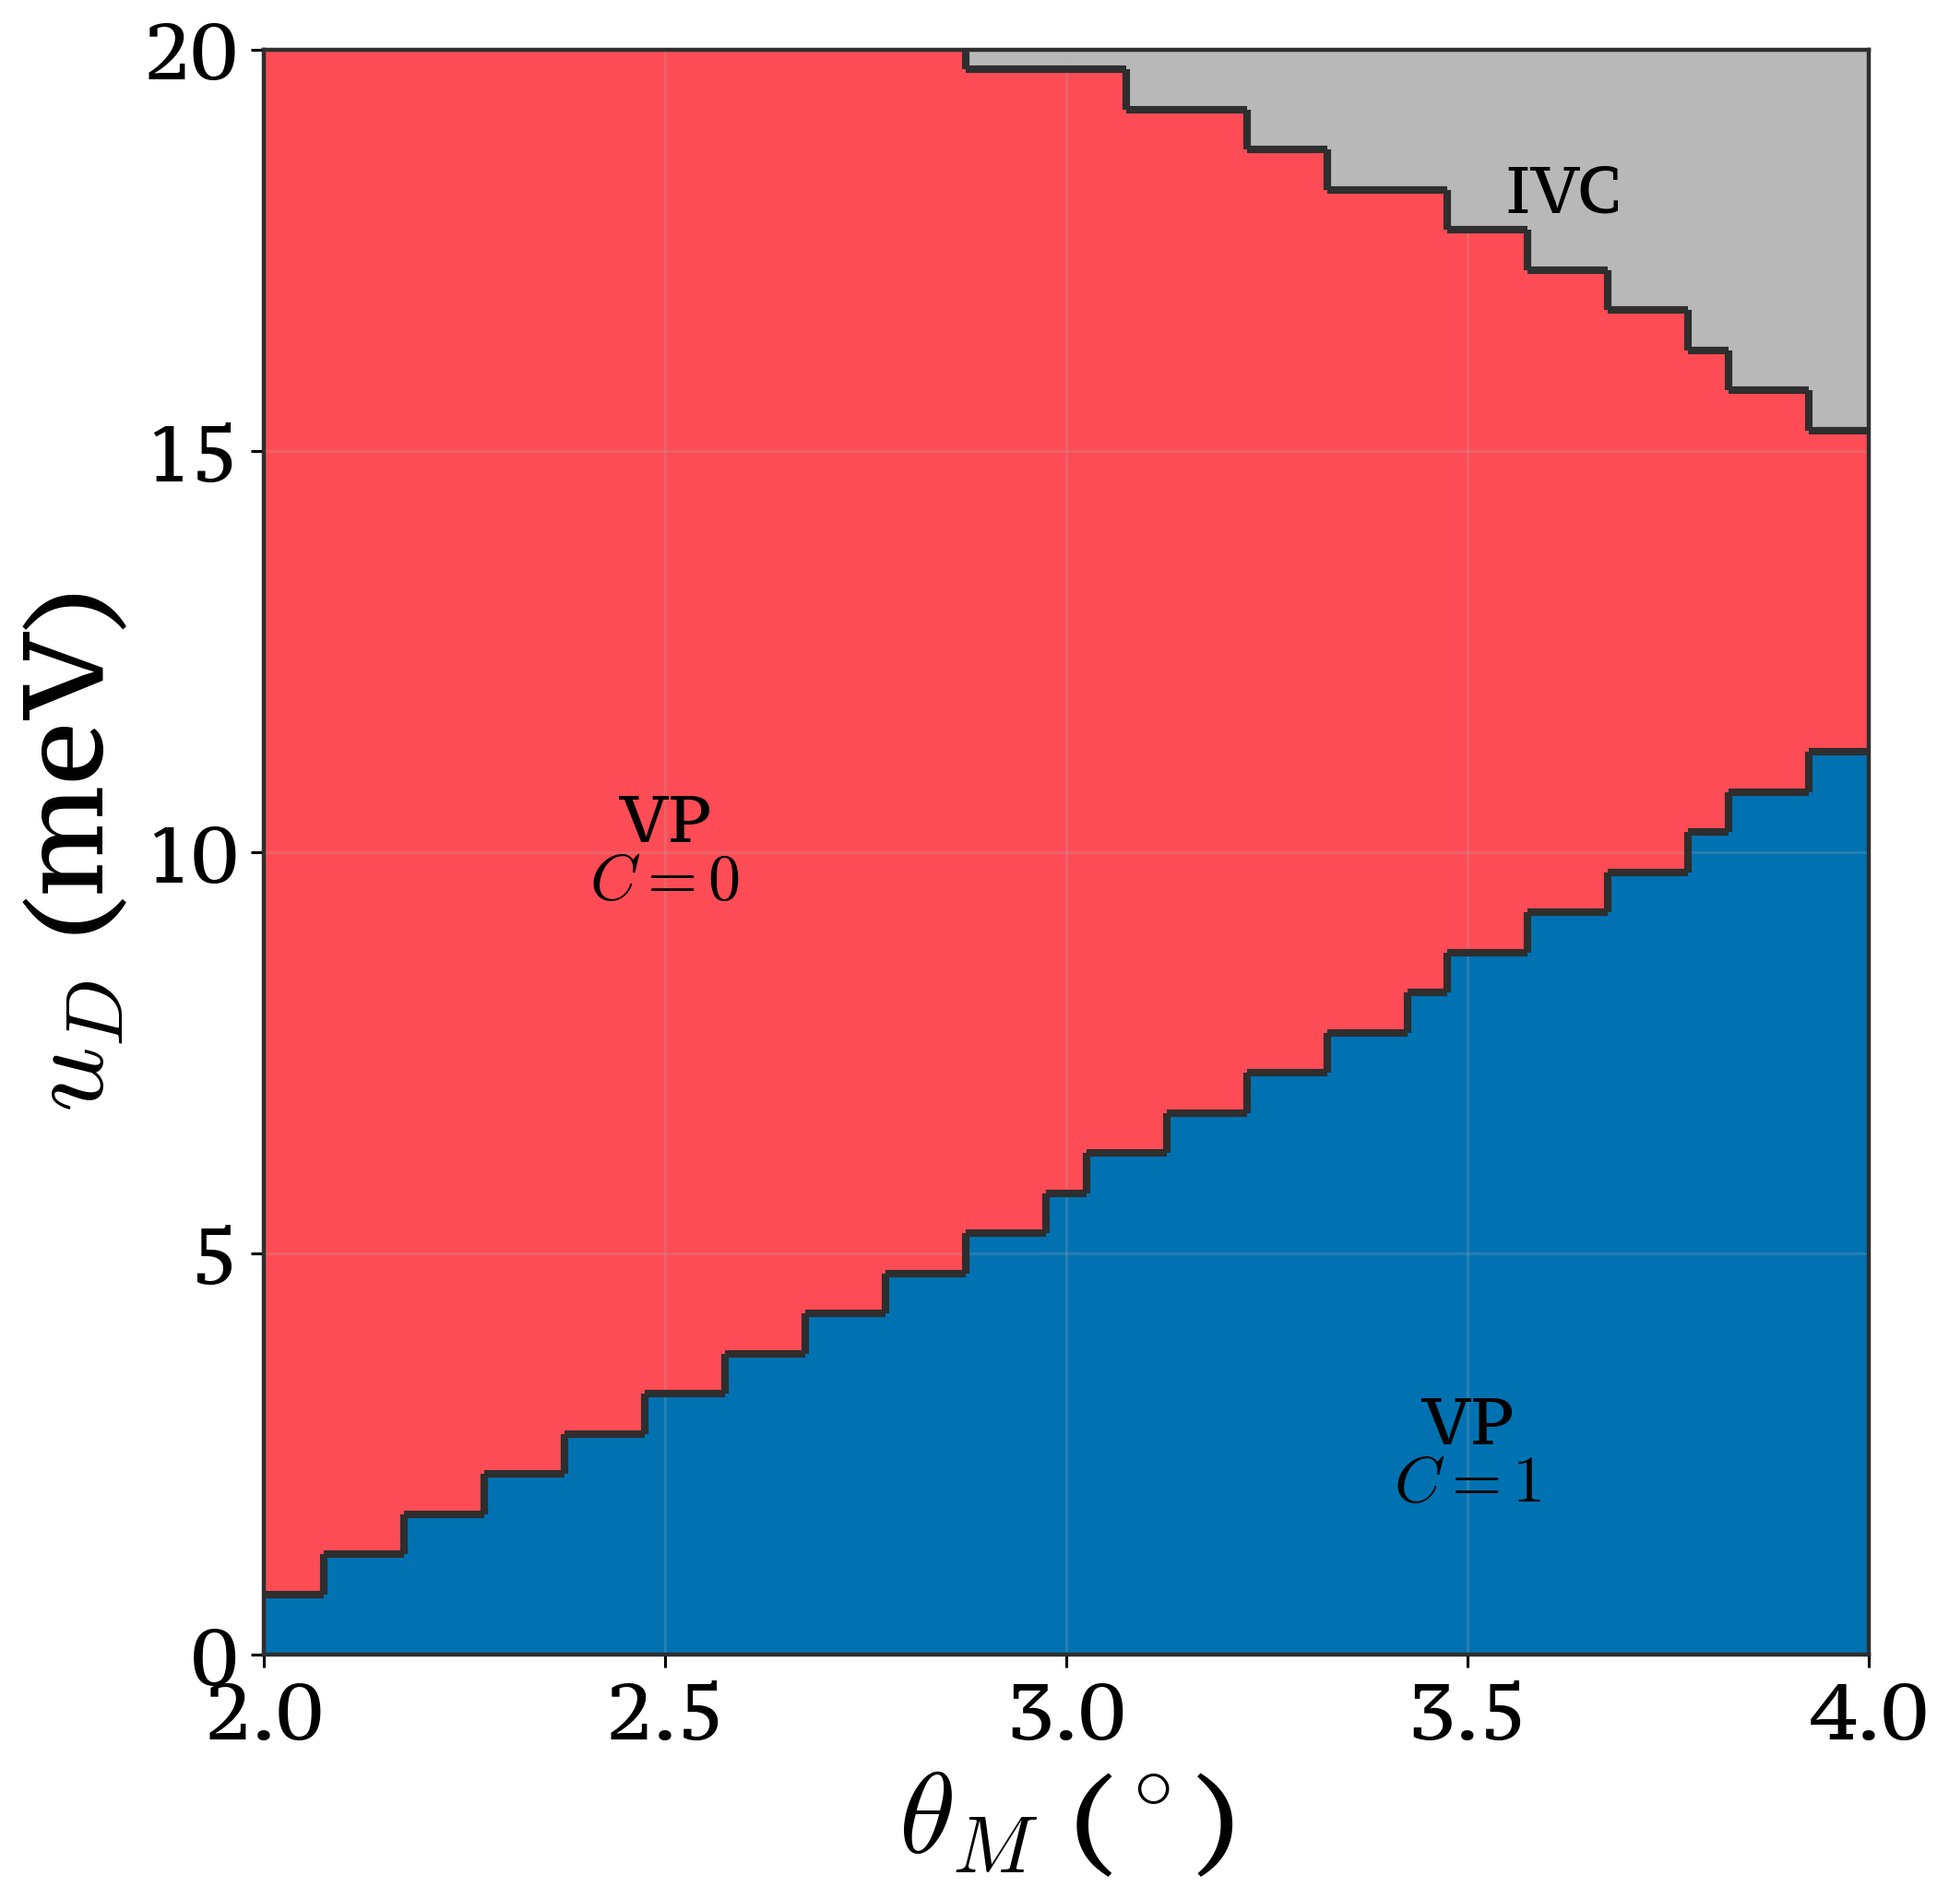
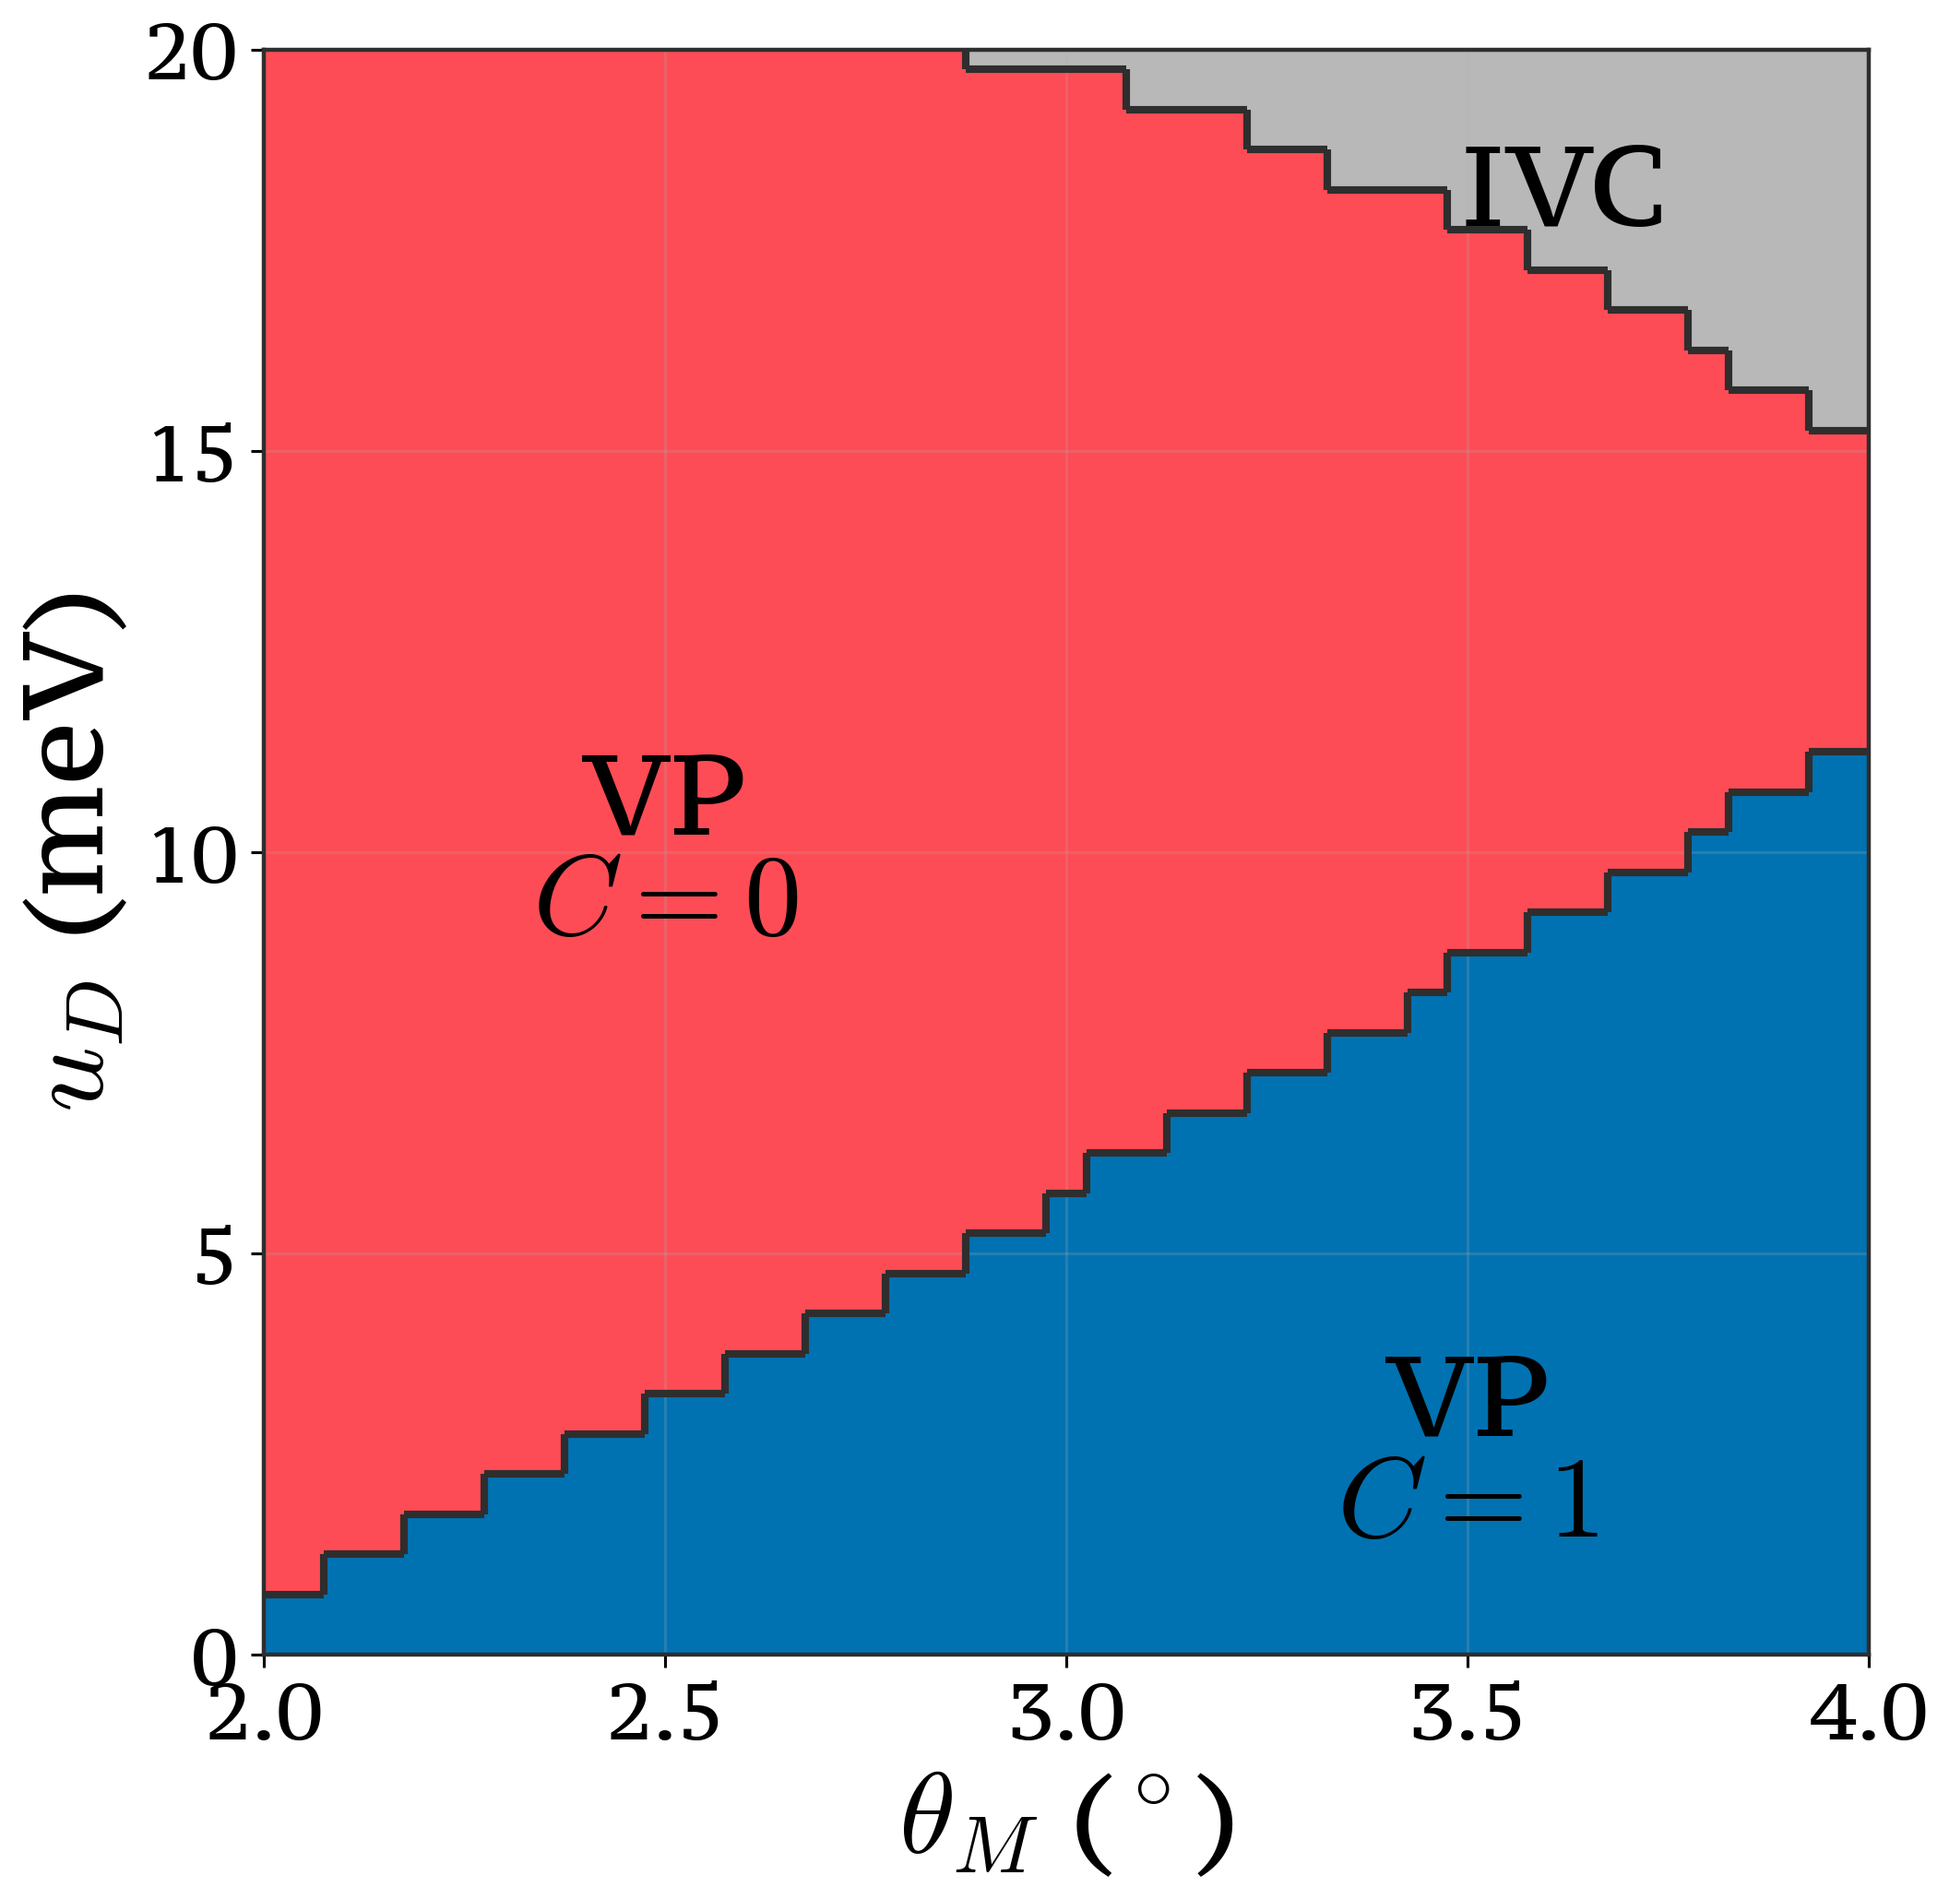
Enlarge HF phase labels

Changed region(s): [[0.2811, 0.373, 0.4061, 0.4973], [0.6872, 0.7149, 0.8121, 0.8082], [0.7496, 0.0622, 0.8434, 0.1243]]

diff --git a/tests/test_tmote2_all7_cg_heatmap_plot.py b/tests/test_tmote2_all7_cg_heatmap_plot.py
@@ -46,7 +46,7 @@ def test_hf_phase_diagram_has_requested_categorical_colors():
 def test_hf_phase_labels_match_previous_tmote2_placement():
     module = _load_plot_module()
 
-    assert module.FONTS["phase_label"] == 18
+    assert module.FONTS["phase_label"] == module.FONTS["axis_label"] == 32
     assert module.PHASE_LABELS == (
         {"text": "VP\n$C=0$", "theta_deg": 2.50, "u_D_meV": 10.0},
         {"text": "VP\n$C=1$", "theta_deg": 3.50, "u_D_meV": 2.5},

diff --git a/Plots/plot_grid41_linear_interaction_single_cg_heatmap.py b/Plots/plot_grid41_linear_interaction_single_cg_heatmap.py
@@ -45,7 +45,7 @@ FONTS = {
     "axis_label": 32,
     "tick_label": 22,
     "legend": 22,
-    "phase_label": 18,
+    "phase_label": 32,
     "colorbar_label": 32,
     "colorbar_tick": 22,
 }
